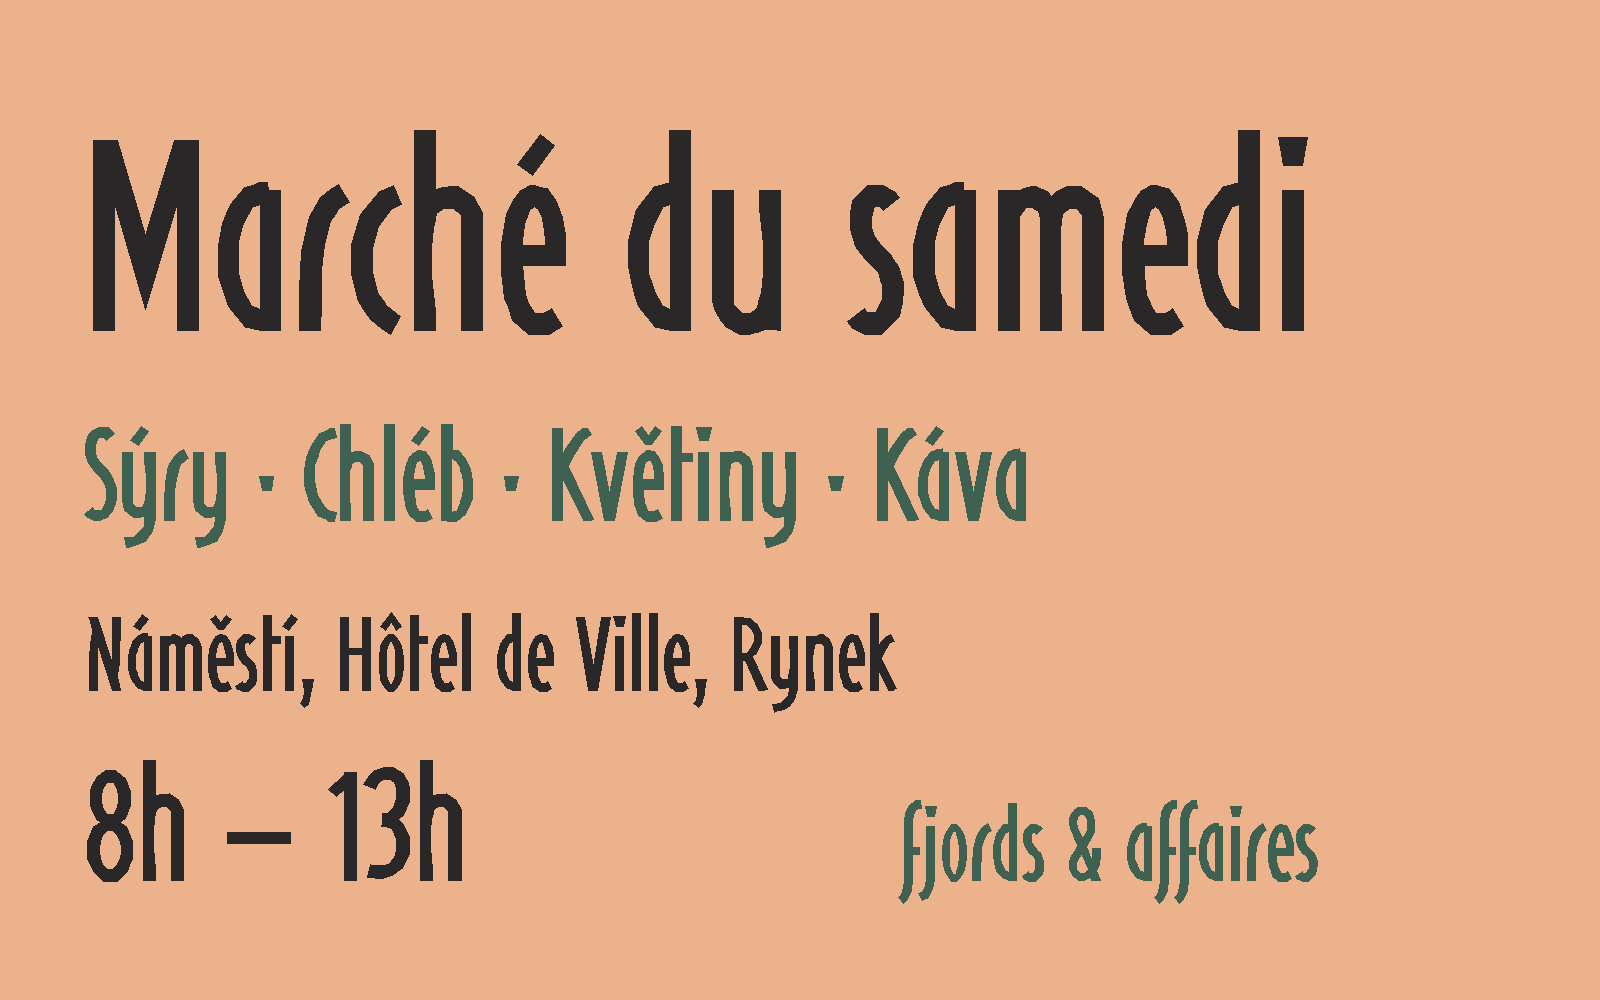
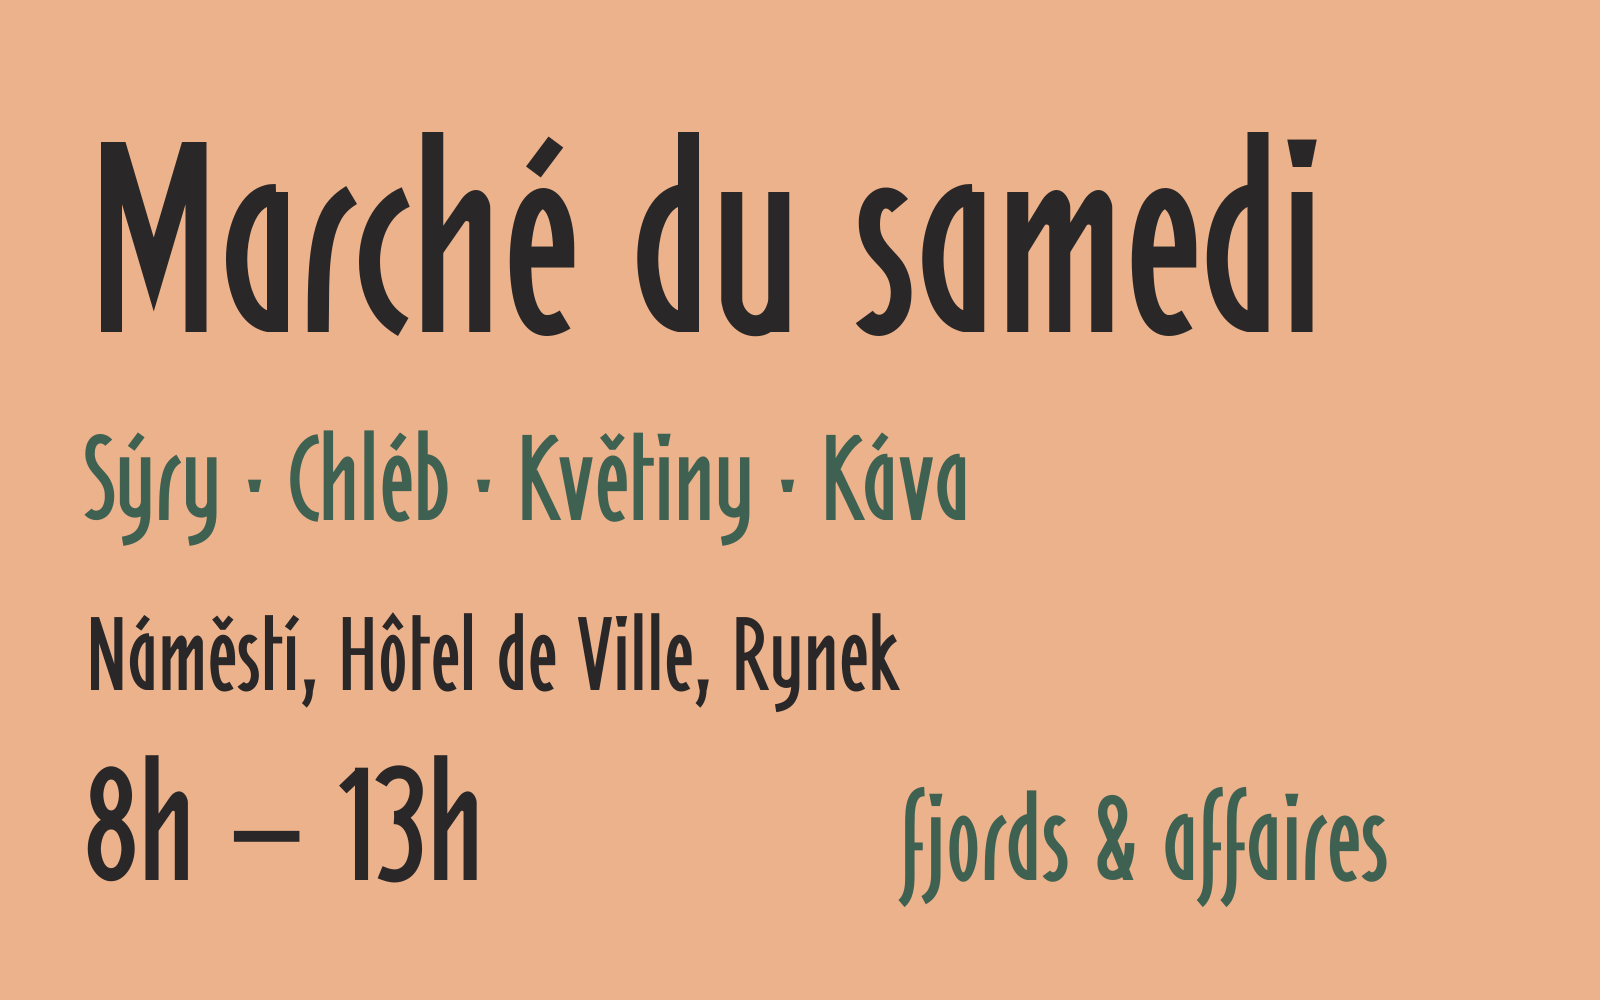
Regenerate README images from v2.006
Specimen, character set and sample-in-use images are now drawn from the
current OTF by sources/make_docs_images.py, so they can be refreshed after
any future change.

Claude-Session: https://claude.ai/code/session_013QBRTa3Tis88nCXoL6cuEK

diff --git a/sources/make_docs_images.py b/sources/make_docs_images.py
@@ -1,0 +1,102 @@
+"""Regenerate the README / documentation images from the built OTF.
+
+    python3 sources/make_docs_images.py          (needs uharfbuzz, fonttools, cairosvg)
+
+Writes documentation/specimen.png, documentation/charset.png and
+documentation/sample-in-use.png (plus the copy in documentation/article/).
+Text is shaped with HarfBuzz, so kerning and features (ss01) are applied.
+"""
+import os
+import shutil
+import unicodedata
+
+import cairosvg
+import uharfbuzz as hb
+from fontTools.pens.svgPathPen import SVGPathPen
+from fontTools.ttLib import TTFont
+
+ROOT = os.path.dirname(os.path.dirname(os.path.abspath(__file__)))
+FONT = os.path.join(ROOT, "fonts", "otf", "Mckitrick-Regular.otf")
+DOCS = os.path.join(ROOT, "documentation")
+
+INK, PAPER = "#2A2728", "#F3EEE2"
+APRICOT, GREEN = "#ECB28B", "#3F6152"
+
+tt = TTFont(FONT)
+gs = tt.getGlyphSet()
+order = tt.getGlyphOrder()
+upm = tt["head"].unitsPerEm
+hbfont = hb.Font(hb.Face(hb.Blob.from_file_path(FONT)))
+
+
+def text(s, x, baseline, size, fill=INK, features=None):
+    """SVG for a shaped line of text with its baseline at y=baseline (pixels)."""
+    buf = hb.Buffer()
+    buf.add_str(s)
+    buf.guess_segment_properties()
+    hb.shape(hbfont, buf, features or {})
+    k = size / upm
+    pen_x, paths = 0, []
+    for info, pos in zip(buf.glyph_infos, buf.glyph_positions):
+        pen = SVGPathPen(gs)
+        gs[order[info.codepoint]].draw(pen)
+        d = pen.getCommands()
+        if d:
+            paths.append(f'<path transform="translate({pen_x + pos.x_offset},{pos.y_offset})" d="{d}"/>')
+        pen_x += pos.x_advance
+    return f'<g fill="{fill}" transform="translate({x},{baseline}) scale({k},{-k})">{"".join(paths)}</g>'
+
+
+def save(name, w, h, bg, body):
+    svg = (f'<svg xmlns="http://www.w3.org/2000/svg" width="{w}" height="{h}">'
+           f'<rect width="100%" height="100%" fill="{bg}"/>{body}</svg>')
+    out = os.path.join(DOCS, name)
+    cairosvg.svg2png(bytestring=svg.encode(), write_to=out)
+    print("wrote", out)
+    return out
+
+
+# ---------------------------------------------------------------- specimen
+save("specimen.png", 2080, 1367, PAPER, "".join([
+    text("McKitrick", 70, 352, 305),
+    text("ABCDEFGHIJKLMNOPQRSTUVWXYZ", 70, 548, 118),
+    text("abcdefghijklmnopqrstuvwxyz", 70, 690, 118),
+    text("0123456789 & £ € $ ¥ % @ ! ? ( ) « »", 70, 822, 118),
+    text("Quick fjords hold the oak barge.", 70, 952, 110),
+    text("Été à la forêt · Grüße aus Łódź · Țară · Ţară", 70, 1063, 86),
+    text("Stylistic set 1 · descending f", 70, 1142, 56),
+    text("fjord fine affair", 70, 1238, 86, features={"ss01": True}),
+]))
+
+# ---------------------------------------------------------------- sample in use
+save("sample-in-use.png", 1600, 1000, APRICOT, "".join([
+    text("Marché du samedi", 88, 332, 250),
+    text("Sýry · Chléb · Květiny · Káva", 84, 520, 112, GREEN),
+    text("Náměstí, Hôtel de Ville, Rynek", 86, 690, 96),
+    text("8h – 13h", 84, 880, 156),
+    text("fjords & affaires", 900, 880, 112, GREEN, features={"ss01": True}),
+]))
+shutil.copy(os.path.join(DOCS, "sample-in-use.png"), os.path.join(DOCS, "article", "sample-in-use.png"))
+
+# ---------------------------------------------------------------- character set
+cmap = tt.getBestCmap()
+chars = [cp for cp in sorted(cmap)
+         if cp > 0x20 and cp != 0xA0 and unicodedata.category(chr(cp)) != "Mn"]
+COLS, CELL, M = 20, 84, 10
+rows = (len(chars) + COLS - 1) // COLS
+W, H = M * 2 + COLS * CELL, M * 2 + rows * CELL
+grid = []
+for r in range(rows + 1):
+    grid.append(f'<line x1="{M}" x2="{M + COLS * CELL}" y1="{M + r * CELL}" y2="{M + r * CELL}"/>')
+for c in range(COLS + 1):
+    grid.append(f'<line x1="{M + c * CELL}" x2="{M + c * CELL}" y1="{M}" y2="{M + rows * CELL}"/>')
+cells = []
+size = 52
+for i, cp in enumerate(chars):
+    r, c = divmod(i, COLS)
+    gname = cmap[cp]
+    adv = tt["hmtx"][gname][0] * size / upm
+    x = M + c * CELL + (CELL - adv) / 2
+    cells.append(text(chr(cp), x, M + r * CELL + 60, size, "#000"))
+save("charset.png", W, H, "#FFFFFF",
+     f'<g stroke="#D7D7D7" stroke-width="1">{"".join(grid)}</g>' + "".join(cells))
